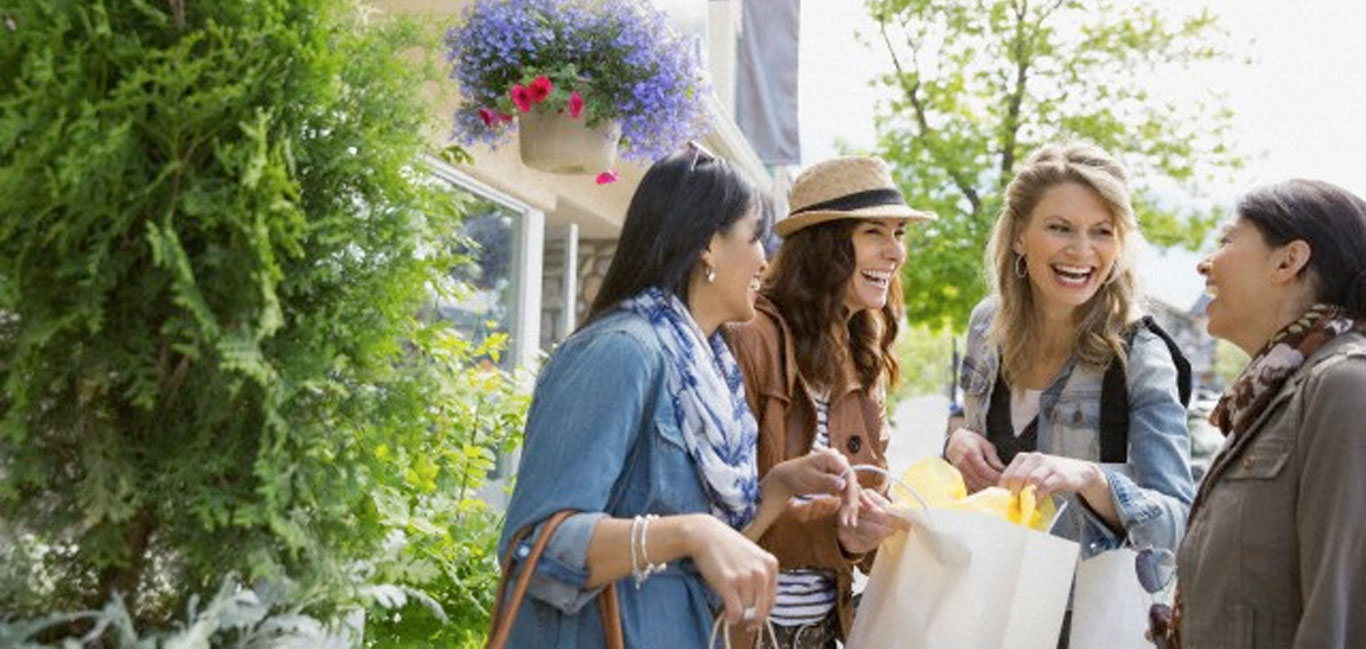
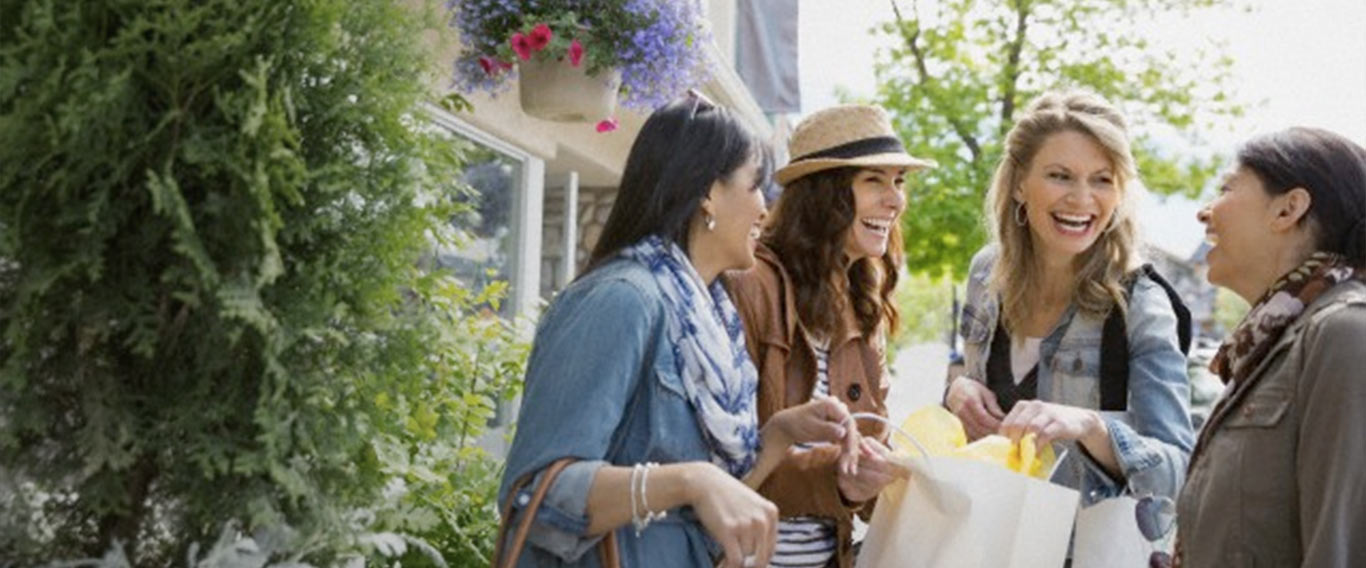
header, jumbotron, buttons

diff --git a/styles/online_sponsoring/style.css b/styles/online_sponsoring/style.css
@@ -46,8 +46,8 @@ body.landing-page {
 }
 
 body.join .nav .open>a.language_dropdown, .nav .open>a.language_dropdown:hover, .nav .open>a.language_dropdown:focus {
-background-color: #c52033;
-border-color: #c52033;
+background-color: #c3002f;
+border-color: #c3002f;
 }
 a.watch-video-link{
   color: #877650;
@@ -60,23 +60,28 @@ a.watch-video-link:hover {
 }
 
 a.watch-video-link span.glyphicon-play {
-color: #482365;
+color: #460d66;
 }
 
 .btn {
 /*font-size: 1.2em;
 padding: 0.5em 1.5em;*/
-background: #c52033;
+background: #c3002f;
 /*opacity: 0.7;*/
 text-transform: uppercase;
 font-weight: normal;/*bold;*/
 /*letter-spacing: 0.2em;*/
+box-shadow: inset 0 2px 0 0 rgba(255,255,255,.4), 0 2px 0 0 rgba(0,0,0,.4);
+}
+
+.btn-primary:hover, .btn-primary:focus, .btn-primary:active, .btn-primary.active, .open .dropdown-toggle.btn-primary, .btn-default:hover, .btn-default:focus, .btn-default:active, .btn-default.active, .open .dropdown-toggle.btn-default {
+  background: #a5001b;
 }
 
 h1, .h1, h2, .h2, h3, .h3, h4, .h4, h5, .h5, h6, .h6 {
   font-family: DidotLTPro-Roman, serif;
   font-weight: 400;
-  color: #482365;
+  color: #460d66;
 }
 .biggify{
   font-size: 18px;
@@ -136,7 +141,7 @@ padding-left: 0px;
 .navbar-default .navbar-nav>.active>a, .navbar-default .navbar-nav>.active>a:hover, .navbar-default .navbar-nav>.active>a:focus {
 color: #fff;
 border-radius: 0px;
-background-color: #c52033;
+background-color: #c3002f;
 }
 .navbar-joinstyle {
 background-color: #1cc3d6;
@@ -146,7 +151,7 @@ border-radius: 0px;
 .navbar-nav>li>a:hover,
 .navbar-nav>li>a:focus,
 .navbar-nav>li.active>a {
-  margin-right: 15px;
+  /*margin-right: 15px;*/
 }
 .navbar-toggle,
 .navbar-toggle:hover,
@@ -195,9 +200,10 @@ box-shadow: inset 0 1px 1px rgba(0,0,0,.05);
 #pagenav {
   margin-bottom: 0;
   background: none;
-  border-bottom: 1px solid #53366C;
+  border-bottom: none;
   margin-top: -50px;
-  background: #53366C;
+  background: #460d66;
+  box-shadow: 0 2px 8px rgba(31,0,60,.4);
 }
 
 #pagenav.affix {
@@ -217,45 +223,53 @@ box-shadow: inset 0 1px 1px rgba(0,0,0,.05);
   padding-bottom: 20vh;*/
   background: #fff url(/img/jumbotron_bg-1.jpg);
   background-size: cover;
-  background-position: 40% top;
+  background-position: 50% top;
+  box-shadow: inset 0 0 16px 4px rgba(31,0,60,.4);
 }
 .jumbotron .btn {
   font-size: 1.2em;
-  background-blend-mode: multiply;
-  border-top: 2px solid #D96783;
-  border-bottom: 2px solid #312626;
+  padding-left: 20px;
+  padding-right: 20px;
 }
 .jumbo-row{
-background: rgba(72, 35, 101, 0.5);
-margin-left: -45px;
-margin-right: -45px;
+background: rgba(44, 33, 50, .7);
+margin-left: -30px;
+margin-right: -30px;
+}
+.jumbo-row .container {
+  padding: 30px;
 }
 .jumbo-title{
 line-height: 0.8;
 }
 .jumbo-description {
 color: #fff;
-padding: 20px;
+font-size: 22px;
+line-height: 1.6em;
 }
 .jumbo-title-span-1 {
   color: #FFFFFF;
-  font-size: 102px; 
+  font-size: 126px; 
 }
 .jumbo-title-span-2 {
 color: #DBC572;
-background: rgba(105, 0, 0, 0.3);
+background: rgba(105, 0, 0, 0.4);
+padding: 0 .2em;
+font-size: 76px;
 }
 .jumbo-title-span-3 {
 color: #DBC572;
-background: rgba(105, 0, 0, 0.3);
+background: rgba(105, 0, 0, 0.4);
 line-height: 0.8;
+padding: 0 .2em;
 margin-left: 1em;
-
+font-size: 76px;
 }
 .jumbo-title-span-4 {
   color: #FFFFFF;
   font-size: 75px;
   line-height: 0.8;
+  font-size: 105px;
 }
 .jumbo-videobg {
   background: none;
@@ -354,7 +368,7 @@ font-size: 55px;
 font-family: DidotLTPro-Italic;
 font-weight: normal;
 font-style: normal;
-color: #482365;
+color: #460d66;
 letter-spacing: normal;
 }
 
@@ -452,7 +466,7 @@ line-height: 1.2em;
   font-weight: normal;
   font-style: normal;
   font-size: 10em;
-  color: #53366C;
+  color: #460d66;
 line-height: 1.2em; /*0.8em;*/
 }
 .modal_starter_kits-price{
@@ -491,7 +505,7 @@ line-height: 2em; /*0.8em;*/
   font-style: normal;
   text-transform: uppercase;
   font-size: 64px;
-  color: #482365;
+  color: #460d66;
 }
 
 .cardImg 
@@ -511,11 +525,17 @@ line-height: 2em; /*0.8em;*/
 
 .join_nav  > li > a:hover , .join_nav  > li > a:focus
 {
-	background-color:#c52033 !important; 
-	color:#fff !important;  
-  border-top: 1px solid #D96783;
-  border-bottom: 1px solid #312626;
+  background-color: #5b3570 !important;
+  cursor: pointer;
 } 
+.join_nav  > li > a.cta,
+.join_nav  > li > a.cta:hover , .join_nav  > li > a.cta:focus
+{
+  background-color:#c3002f !important; 
+  color:#fff !important;
+  box-shadow: inset 0 1px 0 0 rgba(255,255,255,.4), 0 1px 0 0 rgba(0,0,0,.4);
+} 
+
 .navbar-language > li > a
 {
 	text-shadow:none; 
@@ -528,7 +548,7 @@ line-height: 2em; /*0.8em;*/
 	text-shadow:none; 
 	margin:5px;
 	border-radius: 0px; 
-	background-color:#c52033 !important; 
+	background-color:#c3002f !important; 
 	color:#fff !important;
 }
 .navbar-language  .dropdown-menu > li > a
@@ -551,18 +571,18 @@ line-height: 2em; /*0.8em;*/
 {
 	background:#FAEBE6;
 }
-.dropdown-menu > .contact-description 
+/*.dropdown-menu > .contact-description 
 {
 	color: #aa73b1 !important;
 	font-weight:normal; 
   text-align: center;
-}
+}*/
 .dropdown_jafra {
 width: 200px;
 }
  .navbar-language > .open > a,  .navbar-language > .open > a:hover,  .navbar-language > .open > a:focus 
 {
-    background-color: #c52033 !important;
+    background-color: #c3002f !important;
     color: #fff !important;
 }
 
@@ -721,10 +741,10 @@ body.incheckout {
     .jumbo-title-span-1 {
       font-size: 50px; 
     }
-    .jumbo-title-span-2 {
-      font-size: 34px;
-    }
+    .jumbo-title-span-2,
     .jumbo-title-span-3 {
+      font-size: 24px;
+      white-space: nowrap;
     }
     .jumbo-title-span-4 {
       font-size: 37px;
@@ -735,6 +755,9 @@ body.incheckout {
     }
     p.jumbo-description {
       font-size: 14px;
+    }
+    p.jumbo-description br {
+      display: none;
     }
     
     .jumbotron p.jumboget {
@@ -786,12 +809,26 @@ body.incheckout {
 
 }
 @media (min-width:400px) and (max-width:767px) {
-	.jumbo-title-span-1 {
+/*	.jumbo-title-span-1 {
 	    font-size: 85px;
 	}
 	.jumbo-title-span-4 {
 	    font-size: 60px;
-	}
+	}*/
+
+  .jumbo-title-span-1 {
+      font-size: 85px;
+  }
+  .jumbo-title-span-2, .jumbo-title-span-3 {
+    font-size: 40px
+  }
+  .jumbo-title-span-4 {
+      font-size: 60px;
+  }
+  p.jumbo-description br {
+      display: none;
+    }
+
     ul.menu_language li a {
       color: #fff;
     }
@@ -804,7 +841,7 @@ body.incheckout {
 		max-width: 100%;
 	}
 	footer .nav .open>a{
-		background-color:#53366C!important;
+		background-color:#460d66!important;
 	}
 }
 @media (max-width: 767px) {
@@ -825,7 +862,7 @@ body.incheckout {
 		width:100%; 
 	}
 	footer .navbar-nav .open .dropdown-menu{
-		background-color:#53366C!important;
+		background-color:#460d66!important;
 	}
 }
 
@@ -834,7 +871,6 @@ body.incheckout {
 	
     .jumbotron {
         padding-top: 60px;
-        padding-bottom: 60px;
     }
     footer .navbar-nav{
         margin: 0 auto;
@@ -842,19 +878,18 @@ body.incheckout {
         table-layout: fixed;
         float:none;
     }
-	.jumbo-title-span-1 {
-	    font-size: 85px;
-	}
-	.jumbo-title-span-4 {
-	    font-size: 60px;
-	}
+    p.jumbo-description br {
+      display: none;
+    }
 }
 
 /* Medium screens like laptops and smaller desktop monitors */
 @media (min-width:992px) {
     .jumbotron {
         padding-top: 100px;
-        padding-bottom: 100px;
+    }
+    p.jumbo-description br {
+      display: inline;
     }
 }
 
@@ -862,7 +897,6 @@ body.incheckout {
 @media (min-width:1200px) {
     .jumbotron {
         padding-top: 180px;
-        padding-bottom: 180px;
     }
 }
 @media (min-width:900px) and (max-width:1200px){

diff --git a/partials/online_sponsoring/landing.html b/partials/online_sponsoring/landing.html
@@ -3,23 +3,21 @@
       <div class="jumbotron">
         <div class="container">
           <div class="row">
-            <div class="col-md-6">
+            <div class="col-md-12">
               <h1 class="jumbo-title">
                 <span class="jumbo-title-span-1"><span ng-bind-html="'OS-SECTION1-TITLE1' | translate | unsafe"></span></span> <span class="HelveticaNeueLTStd-Th jumbo-title-span-2"><span ng-bind-html="'OS-SECTION1-TITLE2' | translate | unsafe"></span></span><br />
                 <span class="HelveticaNeueLTStd-Th jumbo-title-span-3"><span ng-bind-html="'OS-SECTION1-TITLE3' | translate | unsafe"></span></span> <span class="DidotLTPro-Italic jumbo-title-span-4"><span ng-bind-html="'OS-SECTION1-TITLE4' | translate | unsafe"></span></span>
               </h1>
             </div>
-            <div class="col-md-6">
-              <!--video class="img-responsive" controls poster="video/polina.jpg" id="ctavid">
-                <source src="/video/polina.webm" type="video/webm">
-                <source src="/video/polina.mp4" type="video/mp4">
-              </video-->  
-            </div>
           </div>
-          <div class="row jumbo-row">
-            <div class="col-md-12 text-center">
-              <p class="jumbo-description"><span ng-bind-html="'OS-SECTION1-BODY' | translate | unsafe"></span></p>
-              <p class="jumboget"><a class="btn btn-primary HelveticaNeueLTStd-BdCn btn-med" role="button" href="#" data-toggle="modal" data-target=".bs-example-modal-lg"><span ng-bind-html="'OS-SECTION1-BTN' | translate | unsafe"></span></a> <!--a href="#" class="watch-video-link" data-toggle="modal" data-target=".bs-video-modal-lg"><span class="glyphicon glyphicon-play"></span> WATCH VIDEO</a--></p>
+        </div>
+        <div class="row jumbo-row">
+          <div class="container">
+            <div class="row">
+              <div class="col-md-12 text-center">
+                <p class="jumbo-description"><span ng-bind-html="'OS-SECTION1-BODY' | translate | unsafe"></span></p>
+                <p class="jumboget"><a class="btn btn-primary HelveticaNeueLTStd-BdCn btn-med" role="button" href="#" data-toggle="modal" data-target=".bs-example-modal-lg"><span ng-bind-html="'OS-SECTION1-BTN' | translate | unsafe"></span></a> <!--a href="#" class="watch-video-link" data-toggle="modal" data-target=".bs-video-modal-lg"><span class="glyphicon glyphicon-play"></span> WATCH VIDEO</a--></p>
+              </div>
             </div>
           </div>
         </div>

diff --git a/online_sponsoring.html b/online_sponsoring.html
@@ -87,7 +87,7 @@
             <li ng-if="!inCheckout"><a href="#why_jafra"><span ng-bind-html="'OS-NAV1' | translate | unsafe"></span></a></li>
             <li ng-if="!inCheckout"><a href="#starter_kits"><span ng-bind-html="'OS-NAV2' | translate | unsafe"></span></a></li>
             <li ng-if="!inCheckout"><a href="#FAQs"><span ng-bind-html="'OS-NAV3' | translate | unsafe"></span></a></li>
-            <li ng-if="!inCheckout"><a href="#JOIN_NOW" data-toggle="modal" data-target=".bs-example-modal-lg"><span ng-bind-html="'OS-NAV4' | translate | unsafe"></span></a></li>
+            <li ng-if="!inCheckout"><a href="#JOIN_NOW" class="cta" data-toggle="modal" data-target=".bs-example-modal-lg"><span ng-bind-html="'OS-NAV4' | translate | unsafe"></span></a></li>
             <li class="dropdown"><a href="" class="dropdown-toggle" data-toggle="dropdown"><span ng-bind-html="'OS-NAV5' | translate | unsafe"></span></a>
               <ul class="dropdown-menu dropdown_jafra contact-header">
                 <li class="contact-description">1 (800) 551-2345<br />
